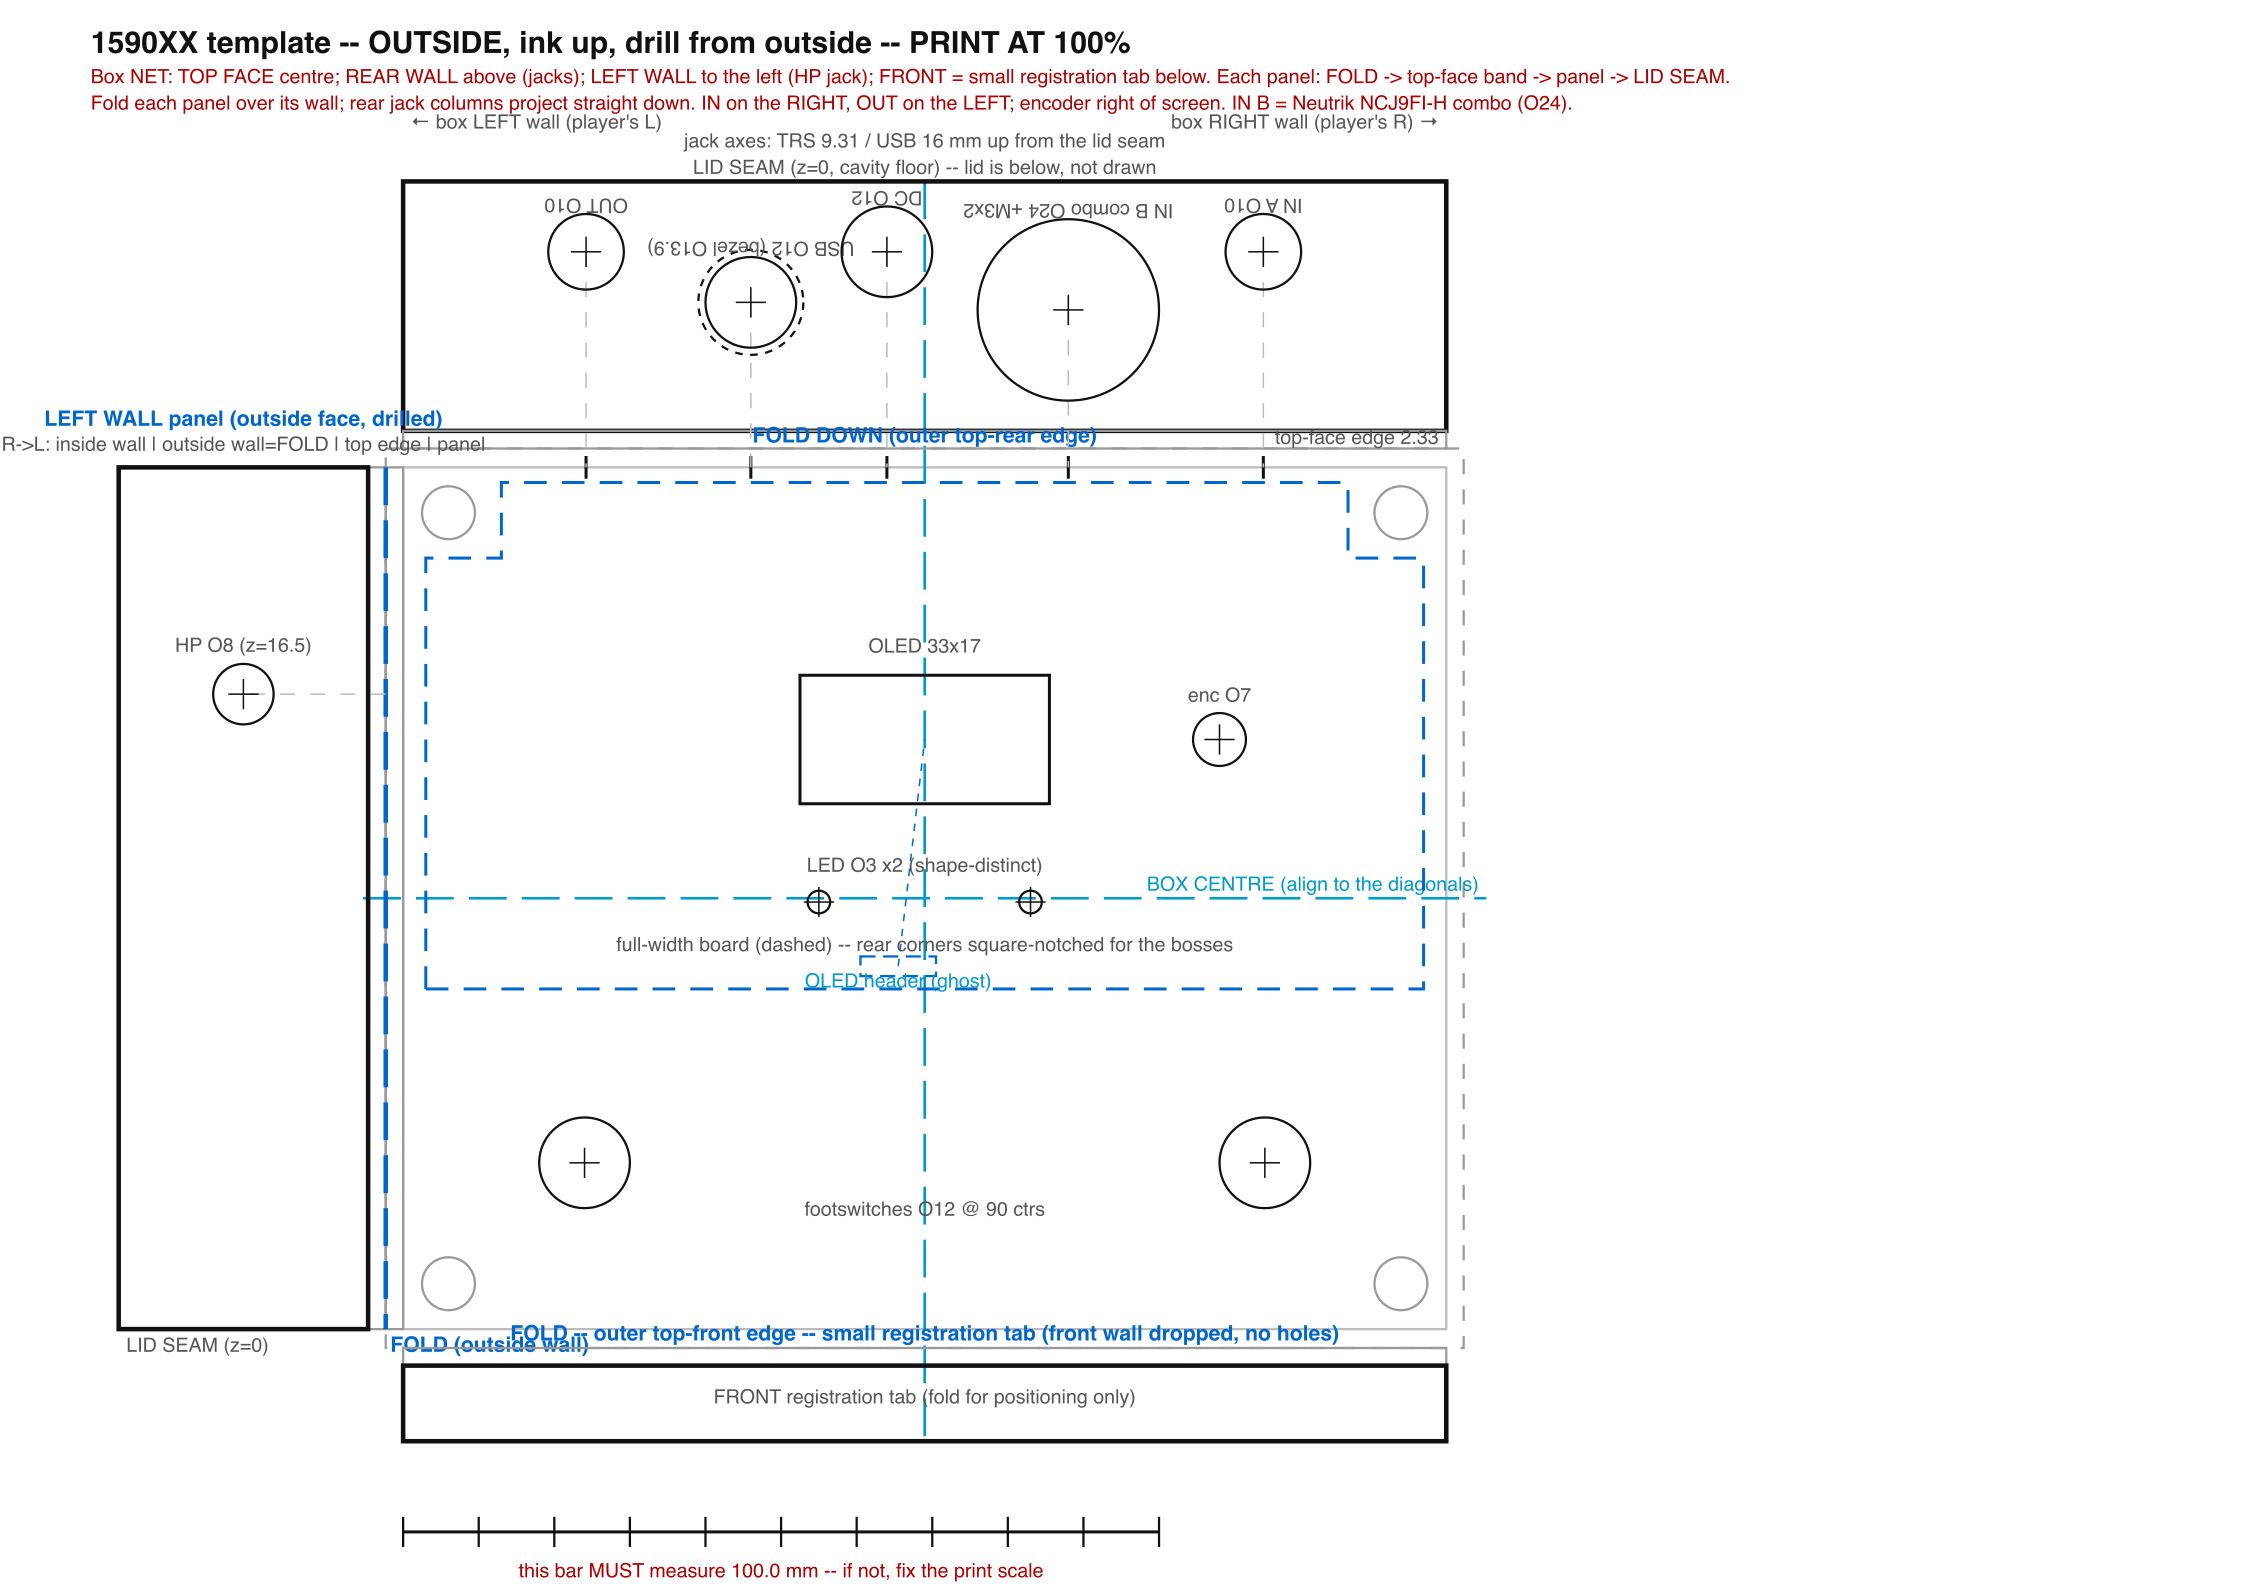
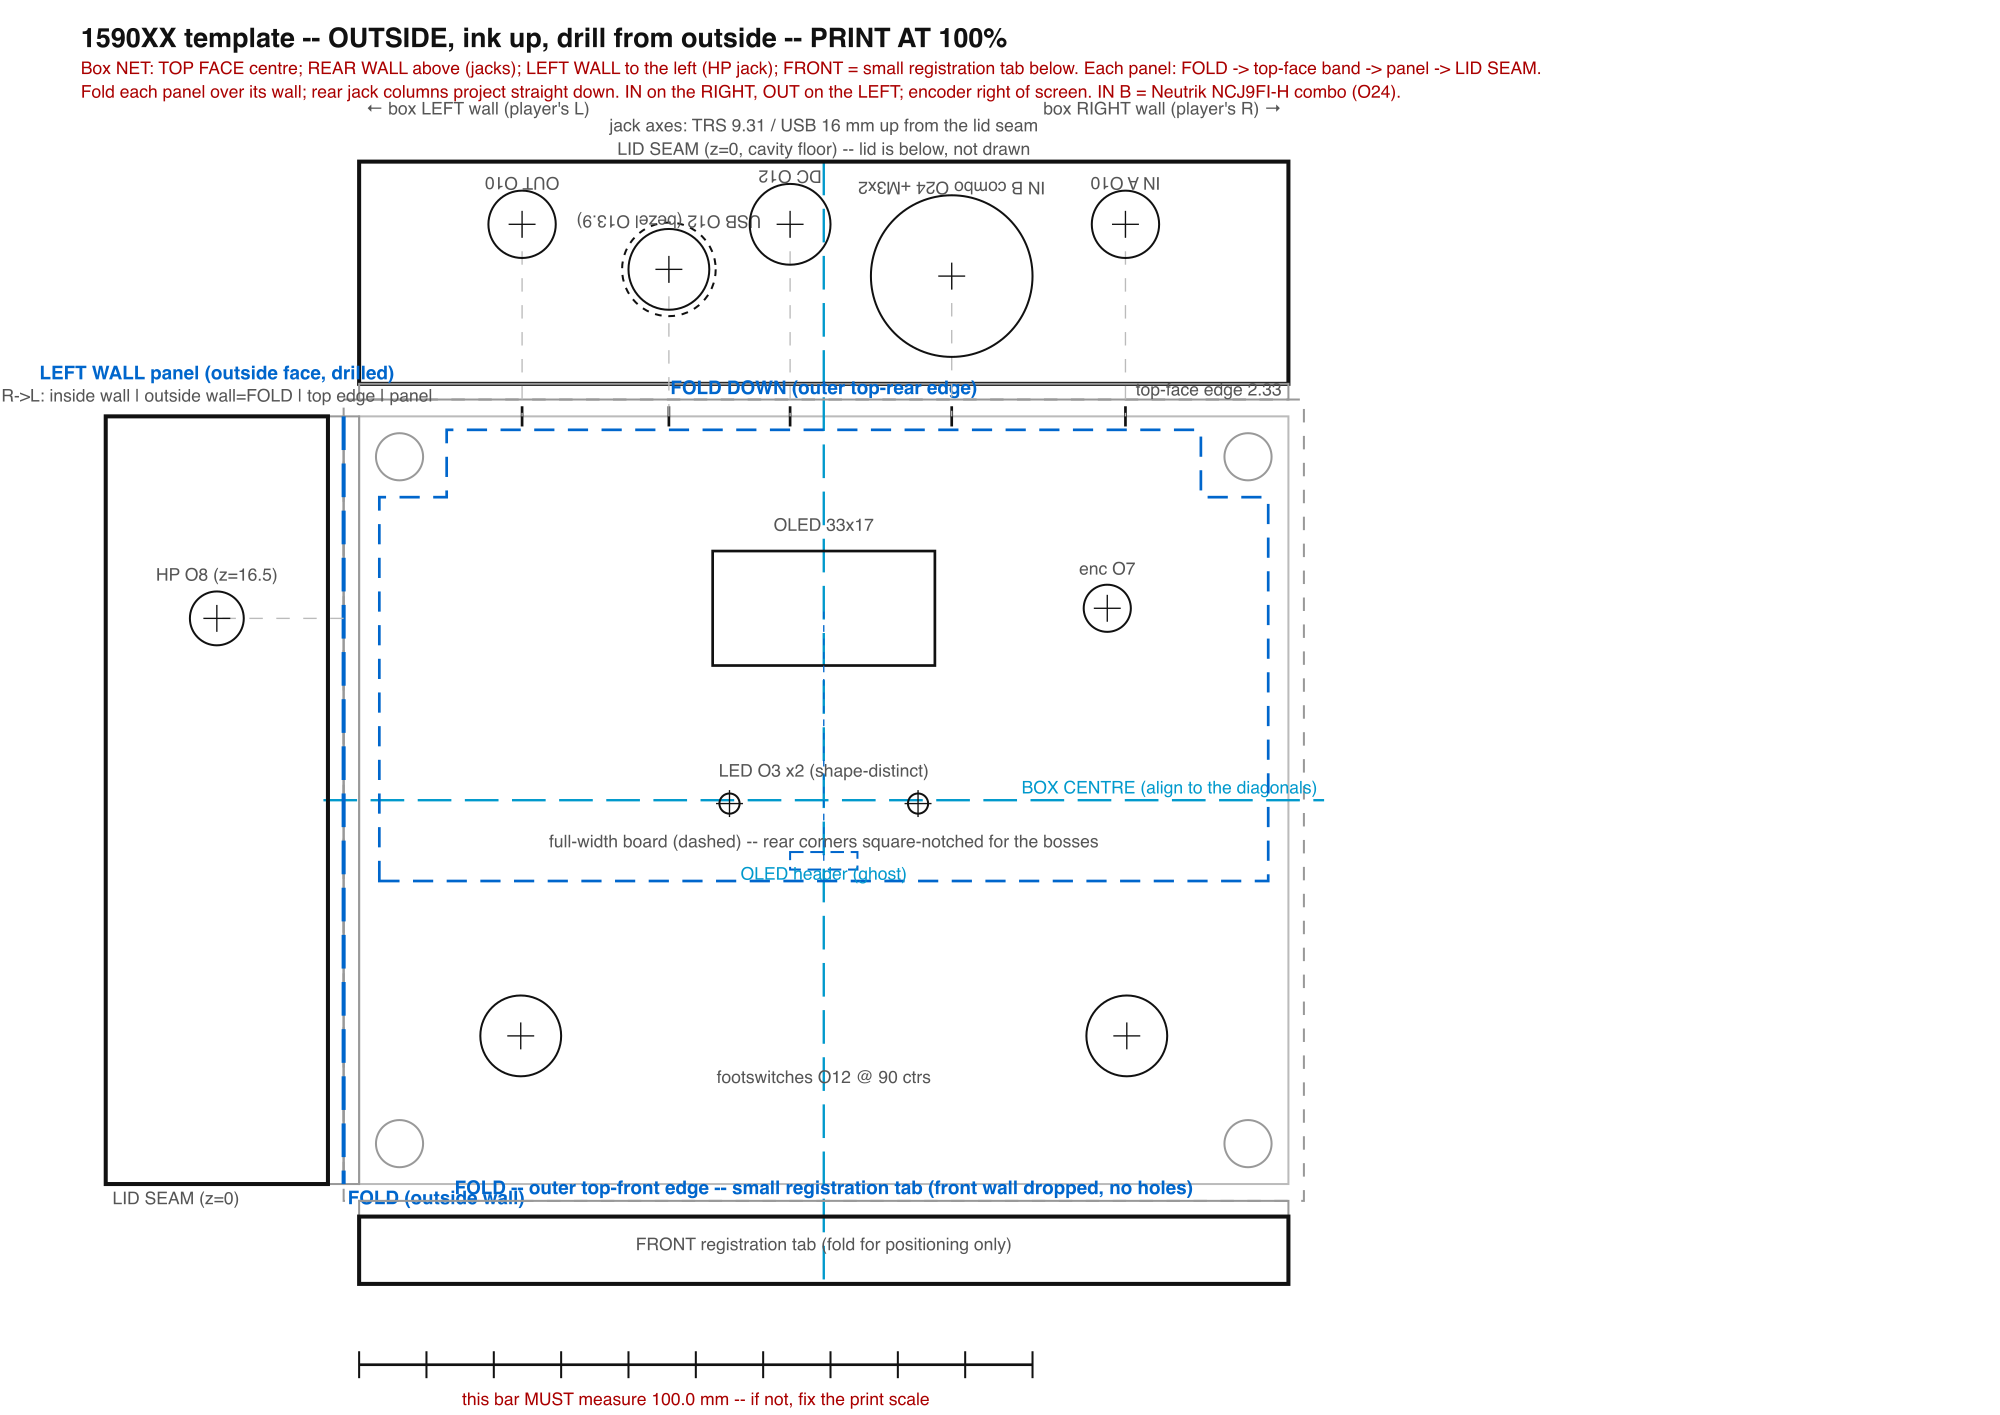
pcb/enclosure: recentre OLED + encoder in the top half of the enclosure
Moved the OLED window + encoder back to y85.5 (enc) = centre of the top/rear half
(0.75*BOX_D), and the encoder ~3mm right to clear the J8 combo courtyard. Board OLED
ghost + encoder silk marks moved to match (locks preserved); temporary top-half-centre
guide line removed. enclosure.py OLED_CTR -> (69,85.5), ENCODER -> (111.1,85.5).
Regenerated mockup + side-elevation (svg/pdf/preview).

diff --git a/pcb/tools/enclosure.py b/pcb/tools/enclosure.py
@@ -56,7 +56,7 @@ def to_board(x, y):
 #   the screen sticks to the top-face inner surface (foam tape) with its glass flush to the window,
 #   and J6 is a 1x4 I2C header on the board linked by a short flat cable. So the window is placed on
 #   the top face in its own right; the old header->window offset no longer applies.
-OLED_CTR    = (69.0, 78.0)                    # OLED window centre; y aligned to the ENCODER (both y=78, moved fwd 2026-10-31)
+OLED_CTR    = (69.0, 85.5)                    # OLED window centre; y = centre of the top/rear half (0.75*BOX_D=85.5), level with the ENCODER (moved back from 78 on 2026-10-31 for visual balance)
 OLED_W, OLED_H = 33.0, 17.0                   # window CUT -- sits BETWEEN the active area (shows through) and the
                                               #   flat black "nice" glass (lip all round):
                                               #   active 29.42 x 14.7  <  WINDOW 33 x 17  <  nice glass 35.58 x 18.66
@@ -76,9 +76,9 @@ OLED_HEADER = (69.0, 48.0)                    # header STRIP CENTRE (the ghost r
                                               #   ghost 3.8 mm left of the strip. No board move needed; nudge J6 x->99.81 only
                                               #   if an exact 96.0 strip centre is ever wanted.
 OLED_HDR_W, OLED_HDR_H = 10.0, 2.6            # 1x4 right-angle header strip (4 x 2.54), for the ghost
-ENCODER    = (108.0, 78.0)                    # encoder SHAFT centre (moved fwd 2026-10-31 to clear J8). SW1 ORIGIN is a
-                                              #   corner pin (64.5,55.5); the real shaft/bushing is the
-                                              #   F.Fab circle at board (57.0,53.0) -> enc(108,78).
+ENCODER    = (111.1, 85.5)                    # encoder SHAFT centre (moved back to y85.5 level with OLED + right ~3mm to clear J8, 2026-10-31). SW1 ORIGIN is a
+                                              #   corner pin (61.41,63.0); the real shaft/bushing is the
+                                              #   F.Fab circle at board (53.91,60.5) -> enc(111.1,85.5).
 ENC_DIA    = 7.0
 FS_CTR     = 90.0
 FOOTSW     = [(BOX_W/2 - FS_CTR/2, 22.0), (BOX_W/2 + FS_CTR/2, 22.0)]   # 90 mm centres, up front (PANEL)
